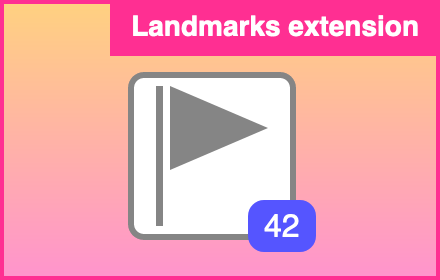
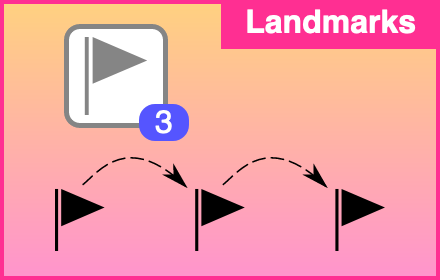
Update promo tile to show what it does

diff --git a/meta/promo.html b/meta/promo.html
@@ -6,43 +6,37 @@
 		<style>
 body {
 	font-family: sans-serif;
-	font-size: 1.5rem;
-	line-height: 1.5;
 	padding: 5rem;
 }
 
 #promo {
 	width: 440px;
-	max-width: 440px;
 	height: 280px;
-	max-height: 280px;
 	background: linear-gradient(#FFD280, #FF94CE);
 	/* Start colour: CSS orange with +25 lightness
 	     end colour: CSS deeppink with +25 lightness
 	   Thanks https://github.com/ThePacielloGroup/CCAe */
+	display: flex;
+	justify-content: center;
 }
 
-#promo-inner {
-	padding: 4.5rem;
-	padding-left: 8rem;
-	width: 100%;
-	height: 100%;
-}
-
-img {
-	height: 50%;
-	border: 0.4rem solid #858585;
+#browserAction {
+	position: fixed;
+	height: 12%;
+	border: 0.35rem solid #858585;
 	border-radius: 1rem;
 	padding: 0.5rem;
 	background-color: white;
+	margin-left: -13rem;
+	margin-top: 1.5rem;
 }
 
 #badge {
 	font-size: 2rem;
 	position: fixed;
 	margin: 0;
-	margin-top: 8rem;
-	margin-left: -3rem;
+	margin-top: 6.5rem;
+	margin-left: -7rem;
 	background: #55f;
 	color: white;
 	border-radius: 1rem;
@@ -50,15 +44,19 @@ img {
 	padding-left: 1rem;
 	padding-right: 1rem;
 }
+
+#jumpy {
+	margin-top: 8rem;
+	width: 75%;
+}
 		</style>
 	</head>
 	<body>
-		<div id="promo" role="main" aria-roledescription="Landmarks extension">
-			<div id="promo-inner">
-				<img src="../src/assemble/landmarks.svg">
-				<span id="badge">42</span>
-			</div>
+		<div id="promo" role="main" aria-roledescription="Landmarks">
+			<img id="browserAction" src="../src/assemble/landmarks.svg" alt="">
+			<span id="badge">3</span>
+			<img id="jumpy" src="jumpy.svg" alt="">
 		</div>
-		<p>This was made with the Landmarks extension, with the label font size set to 28.</p>
+		<p>This was made with the Landmarks extension, with the label font size set to 32.</p>
 	</body>
 </html>
